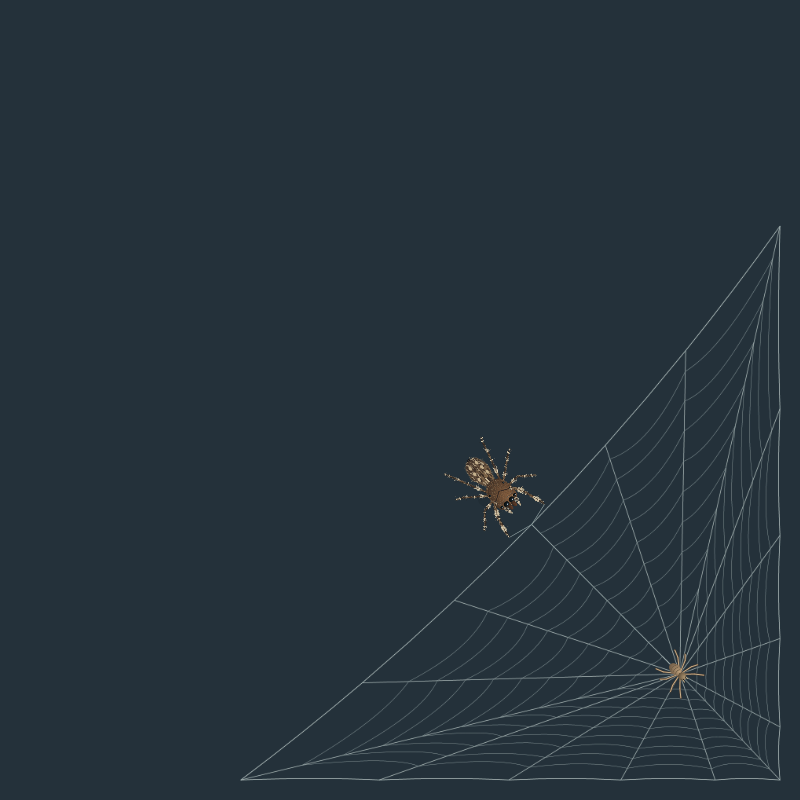
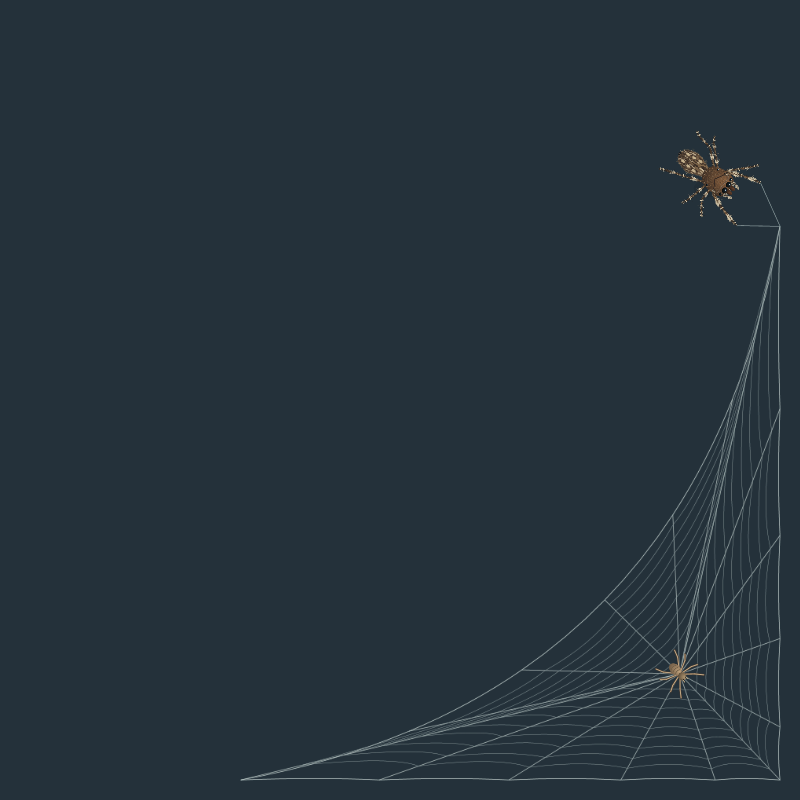
Deepen corner web curve and pluck at desktop attachments

diff --git a/WebEncounter.cs b/WebEncounter.cs
@@ -12,7 +12,8 @@ namespace CornerSpider {
         public double GuestWebFactor { get; private set; }
         public double GuestWebScale { get { return GuestScale*GuestWebFactor; } }
         public double GuestWebExtent { get { return 188*GuestWebScale; } }
-        public V GuestPluckPoint { get { return GuestPatternPoint(GuestWebPattern.Rim(0)); } }
+        public int GuestPluckSpoke { get; private set; }
+        public V GuestPluckPoint { get { return GuestPatternPoint(GuestWebPattern.Rim(GuestPluckSpoke)); } }
         public V GuestPluckPosition { get { return guestStop; } }
         public bool GuestFadeStarted { get; private set; }
         public double NextWebVisit=100;
@@ -105,6 +106,15 @@ namespace CornerSpider {
                 best=distance;found=true;GuestArea=area;GuestCornerIndex=corner;GuestCorner=edge;GuestCenter=center;GuestInward=inward*(1/Math.Sqrt(2));GuestScale=s;GuestWebFactor=factor;
             }
             if(!found) { NextWebVisit=Clock+120;return false; }
+            // Pluck at the nearer outer desktop attachment, never on the
+            // unsupported middle of the open rim. Both choices join a spoke.
+            V topStop,topGoal,sideStop,sideGoal;
+            bool top=PlanPlucking(GuestWebPattern.TopBridgeAnchor,out topStop,out topGoal);
+            bool side=PlanPlucking(GuestWebPattern.SideBridgeAnchor,out sideStop,out sideGoal);
+            if(!top && !side) { NextWebVisit=Clock+120;return false; }
+            bool useTop=top && (!side || (topStop-Spider).Length<=(sideStop-Spider).Length);
+            GuestPluckSpoke=useTop?GuestWebPattern.TopBridgeAnchor:GuestWebPattern.SideBridgeAnchor;
+            guestStop=useTop?topStop:sideStop;guestResidentGoal=useTop?topGoal:sideGoal;
             GuestAge=GuestStageAge=GuestProgress=GuestLure=guestResponse=previousPulse=0;GuestTaps=0;
             GuestBuildTime=Between(180,240);GuestWaitTime=Between(60,120);GuestOpacity=1;
             GuestFadeStarted=false;guestFadeAge=0;
@@ -166,13 +176,29 @@ namespace CornerSpider {
                 MoveGuest(GuestCenter+(guestResidentGoal-GuestCenter)*GuestLure,dt);
             }
         }
+        V PluckingPerch(V contact) {
+            double s=Scale*Areas[GuestArea].Dpi;V outward=contact-GuestCenter;outward=outward*(1/outward.Length);
+            // Keep the entire hunter inside the desktop beside the attachment.
+            return Areas[GuestArea].Clamp(contact+outward*(52*s),SpiderPose.Radius*s);
+        }
+        bool PlanPlucking(int spoke,out V stop,out V goal) {
+            V contact=GuestPatternPoint(GuestWebPattern.Rim(spoke));stop=PluckingPerch(contact);goal=GuestCenter;
+            double s=Scale*Areas[GuestArea].Dpi;
+            // A fitted web's anchor is too close to the edge for the hunter's
+            // whole-body landing. Keep the resident on its connected spoke,
+            // but shorten the lure until the normal mouth-offset jump fits.
+            for(int step=0;step<18;step++) {
+                V candidate=GuestCenter+(contact-GuestCenter)*(.45-step*.025);
+                V direction=candidate-stop;
+                V landing=Areas[GuestArea].Clamp(candidate-direction*(25*s/direction.Length),SpiderPose.Radius*s);
+                if((landing-candidate).Length<32*s) { goal=candidate;return true; }
+            }
+            return false;
+        }
         void BeginWebApproach() {
             ClearPlay();WebStage=WebVisit.Approach;GuestStageAge=0;guestReachedDetour=false;
             double s=Scale*Areas[GuestArea].Dpi;
-            V outward=GuestPluckPoint-GuestCenter;outward=outward*(1/outward.Length);
-            guestStop=GuestPluckPoint+outward*(52*s);
             guestDetour=GuestLocal(GuestWebExtent+110*s,GuestWebExtent+40*s);
-            guestResidentGoal=GuestCenter+(GuestPluckPoint-GuestCenter)*.45;
             Enter(Mood.WebApproach);
         }
         void SneakToWeb(double dt) {
@@ -181,12 +207,12 @@ namespace CornerSpider {
             double distance=(target-Spider).Length/BodyScale;
             if(BurstMove(target,distance>400?135:distance>140?85:44,dt,true)) {
                 if(!guestReachedDetour) guestReachedDetour=true;
-                else { WebStage=WebVisit.Plucking;GuestStageAge=0;Face(GuestCenter);Enter(Mood.WebPluck); }
+                else { WebStage=WebVisit.Plucking;GuestStageAge=0;Face(GuestPluckPoint);Enter(Mood.WebPluck); }
             }
         }
         void PluckWeb() {
             if(!GuestPrey) { Wake();return; }
-            Face(Fly);
+            Face(GuestPluckPoint);
             if(GuestLure>=1 && GuestTaps>=8) { WebStage=WebVisit.Attack;GuestStageAge=0;PrepareJump(Fly,"fly"); }
         }
     }

diff --git a/EncounterTests.cs b/EncounterTests.cs
@@ -12,8 +12,10 @@ static class EncounterTests {
         w.Corner=Settings.Corners[seed%4];w.UpdateHome();w.Spider=w.Home;w.SetSpecies("PortiaLabiata");w.AutoFeed=w.CursorPlay=false;return w;
     }
     public static void Run() {
+        var attachmentChoices=new HashSet<int>();
         foreach(double size in new[]{.2,1,1.8}) foreach(double dt in new[]{.033,.1}) for(int seed=0;seed<8;seed++) {
             var w=New(seed,size,new[]{1,1.5,2}[seed%3]);Check(w.StartWebVisit(),"Portia can invite a web builder");
+            attachmentChoices.Add(w.GuestPluckSpoke);
             Check(w.GuestBuildTime>=180 && w.GuestBuildTime<=240 && w.GuestWaitTime>=60 && w.GuestWaitTime<=120,"real build and post-build wait durations");
             Check((w.GuestCenter-w.Home).Length>320*w.HomeScale,"guest web is separate from the hammock");
             Check(Math.Abs(w.GuestWebFactor-3)<.001 && Math.Abs((w.GuestNode(2)-w.GuestNode(0)).Length/w.GuestScale-549)<.001,"roomy displays use three times the original web span");
@@ -36,6 +38,8 @@ static class EncounterTests {
                     if(w.GuestLure==0) Check((w.Spider-w.Fly).Length>250*w.GuestScale,"central resident and edge-plucking Portia are visibly separated");
                     if(w.GuestTaps>0 && w.GuestTaps<4) { Check(w.GuestLure==0,"initial probes do not immediately summon resident");ignoredProbe=true; }
                     if(w.GuestLure>0) Check(w.GuestTaps>=4,"resident responds only after exploratory signals");
+                    V spoke=w.GuestPluckPoint-w.GuestCenter,along=w.Fly-w.GuestCenter;
+                    Check(Math.Abs(spoke.X*along.Y-spoke.Y*along.X)<.00001*w.GuestScale*w.GuestScale,"lured resident stays on the spoke connected to the chosen desktop anchor");
                 }
             }
             Check(w.Meals==1 && w.Meal==PreyKind.SmallSpider && !w.HasFly,"complete web encounter captures exactly one resident, seed "+seed+" size "+size+" state "+w.State+" visit "+w.WebStage);
@@ -89,6 +93,26 @@ static class EncounterTests {
             Check(fitted.GuestWebFactor<=3 && fitted.GuestWebFactor>=1 && fitted.GuestWebExtent+200*fitted.GuestScale<=1000,"fitted web leaves an approach lane");
             for(int j=0;j<15;j++) Check(fitted.Areas[fitted.GuestArea].Contains(fitted.GuestNode(j)),"every enlarged thread junction stays on its selected display");
         }
+        for(int orientation=0;orientation<2;orientation++) for(int corner=0;corner<4;corner++) {
+            var fitted=New(corner,1.8,1);fitted.ConfigureDisplays(new[]{new Area(0,0,orientation==0?1920:1000,orientation==0?1000:1920,1)},0);fitted.Spider=fitted.Home;
+            Check(fitted.StartWebVisit() && fitted.GuestWebFactor<3,"deep-curve fixture uses a fitted web");
+            attachmentChoices.Add(fitted.GuestPluckSpoke);
+            bool plucked=false;
+            for(int i=0;i<8500 && fitted.Meals==0;i++) {
+                fitted.Tick(.1,away);
+                if(fitted.WebStage==WebVisit.Plucking) {
+                    plucked=true;var area=fitted.Areas[fitted.GuestArea];
+                    Check((area.Clamp(fitted.GuestPluckPosition,SpiderPose.Radius*fitted.GuestScale)-fitted.GuestPluckPosition).Length<.000001,
+                        "fitted web's plucking perch leaves full body clearance at the display edge");
+                }
+            }
+            Check(plucked && fitted.Meals==1,"deep curved web remains reachable through a complete fitted encounter in corner "+corner+
+                "; mood="+fitted.State+", visit="+fitted.WebStage+", plucked="+plucked+", meals="+fitted.Meals+
+                ", contact="+fitted.GuestPluckSpoke+", prey gap="+(fitted.Fly-fitted.Spider).Length/fitted.GuestScale);
+            complete++;
+        }
+        Check(attachmentChoices.Contains(GuestWebPattern.TopBridgeAnchor) && attachmentChoices.Contains(GuestWebPattern.SideBridgeAnchor),
+            "complete hunts exercise both outer desktop attachments on landscape and portrait displays");
         // A route that cuts across the reserved corner must take the outside lane,
         // even though neither its start nor its goal is in the web.
         var route=New(3,1,1);route.StartWebVisit();V signs=route.GuestInward*Math.Sqrt(2);double edge=route.GuestWebExtent;

diff --git a/GuestWebTests.cs b/GuestWebTests.cs
@@ -32,7 +32,19 @@ static class GuestWebTests {
         }
         V openMiddle=GuestWebPattern.Rim(0),chord=new V(-183,188);
         double inset=Math.Abs((openMiddle.X-183)*chord.Y-openMiddle.Y*chord.X)/chord.Length;
-        Check(inset>8 && inset<15,"outer edge has a visible but gentle inward bow between fixed anchors");
+        V chordMiddle=new V(91.5,94);
+        double chordDepth=183*188/chord.Length;
+        Check(inset/chordDepth>.34 && inset/chordDepth<.36,"outer edge bows inward by 35 percent of the full corner-to-chord depth");
+        V priorMiddle=chordMiddle+(GuestWebPattern.Hub-chordMiddle)*.125;
+        Check(openMiddle.Length/priorMiddle.Length>.69 && openMiddle.Length/priorMiddle.Length<.72,
+            "middle edge is about 30 percent shallower than RC8 while its anchors stay fixed");
+        Check((openMiddle-GuestWebPattern.Hub).Length>35,"deep curve leaves room around the resident hub");
+        foreach(int spoke in new[]{GuestWebPattern.TopBridgeAnchor,GuestWebPattern.SideBridgeAnchor}) {
+            V contact=GuestWebPattern.Rim(spoke);
+            Check(contact.X==0 || contact.Y==0,"each plucking choice is a real desktop attachment");
+            Check((contact-GuestWebPattern.Hub).Length*3+52>250,
+                "anchor plucking preserves separation between Portia and the waiting resident on a full-size web");
+        }
         int anchors=0,curved=0,spiral=0;V previous=new V();bool first=true;
         for(int i=0;i<GuestWebPattern.Count;i++) {
             var strand=GuestWebPattern.Strand(i);
@@ -74,7 +86,11 @@ static class GuestWebTests {
                 if(rim.X==0) Check(Math.Min(Math.Abs(at.X-area.X),Math.Abs(at.X-area.X-area.W))<.000001,"side anchor touches the actual work-area boundary");
                 if(rim.Y==0) Check(Math.Min(Math.Abs(at.Y-area.Y),Math.Abs(at.Y-area.Y-area.H))<.000001,"top/bottom anchor touches the actual work-area boundary");
             }
-            Check((w.GuestPatternPoint(GuestWebPattern.Rim(0))-w.GuestPluckPoint).Length<.000001,"Portia plucks the endpoint of a real hub-connected spoke");
+            Check(w.GuestPluckSpoke==GuestWebPattern.TopBridgeAnchor || w.GuestPluckSpoke==GuestWebPattern.SideBridgeAnchor,"Portia chooses an outer desktop anchor, never the floating bridge middle");
+            Check((w.GuestPatternPoint(GuestWebPattern.Rim(w.GuestPluckSpoke))-w.GuestPluckPoint).Length<.000001,"Portia plucks the endpoint of a real hub-connected spoke");
+            V contact=w.GuestPluckPoint;
+            Check(Math.Min(Math.Min(Math.Abs(contact.X-area.X),Math.Abs(contact.X-area.X-area.W)),Math.Min(Math.Abs(contact.Y-area.Y),Math.Abs(contact.Y-area.Y-area.H)))<.000001,
+                "chosen plucking contact stays on a physical display edge after mirroring and scaling");
             V last=w.Fly;
             while(w.WebStage==WebVisit.Building) {
                 w.Tick(.1,new V(-10000,-10000));

diff --git a/PetSettingsWindow.cs b/PetSettingsWindow.cs
@@ -140,7 +140,7 @@ namespace CornerSpider {
             var help=NewPanel();help.Children.Add(Text("A quiet little desktop companion",21));
             Note(help,"Approach an awake spider and hold still for the configured invitation delay. The finger fades in; the spider can jump on, hang, climb and wander. Move gently to carry it. A click lets it plan an upward hop; a fast move startles it. The finger holds still until takeoff, and your pointer returns immediately. Your clicks still reach your apps.");
             Note(help,"It watches from corners, stalks occasional flies and returns to its silk retreat. Use the tray's quick actions to feed, call it home, wake or pause it. Double-click the tray icon to reopen these settings.");
-            Note(help,"Corner Spider 1.0 RC8\nFree software under the MIT License. The pet works offline with no accounts or telemetry. Optional Cash App support opens your browser only when clicked. Preferences are stored in LocalAppData\\CornerSpider. See README.txt for removal and manual checks.");
+            Note(help,"Corner Spider 1.0 RC9\nFree software under the MIT License. The pet works offline with no accounts or telemetry. Optional Cash App support opens your browser only when clicked. Preferences are stored in LocalAppData\\CornerSpider. See README.txt for removal and manual checks.");
             Note(help,"Future ideas: custom colors by body region; crickets, mealworms and other prey; additional spider species; an optional background with depth to explore.");AddTab("About & play",help);
             saveTimer.Tick+=delegate { saveTimer.Stop();host.Save();saveStatus.Text=host.Settings.LastError.Length==0?"Saved. Changes are live on your desktop.":"Could not save preferences. Check that your save folder is writable."; };
             Closed+=delegate { IsClosed=true;saveTimer.Stop();encounterTimer.Stop();Preview.Dispose();host.Save(); };

diff --git a/GuestWebPattern.cs b/GuestWebPattern.cs
@@ -16,6 +16,7 @@ namespace CornerSpider {
     }
     public static class GuestWebPattern {
         public const int Spokes=16,Turns=9;
+        public const int TopBridgeAnchor=13,SideBridgeAnchor=3;
         public static readonly V Hub=new V(34,36);
         static readonly double[] bridgeTimes={0,.2,.36,.5,.64,.8,1};
         static readonly V[] rim=MakeRim();
@@ -49,11 +50,12 @@ namespace CornerSpider {
             for(int i=0;i<bridgeTimes.Length;i++) points[(13+i)%Spokes]=BridgePoint(bridgeTimes[i]);
             return points;
         }
-        // Pull the bridge control point one quarter of the way toward the hub.
-        // A single quadratic arc keeps the open edge gently concave throughout,
-        // with both desktop attachment points fixed. Split it exactly at spoke
-        // joins so construction, artwork and plucking use the same curve.
-        static V BridgeControl { get { V middle=new V(91.5,94);return middle+(Hub-middle)*.25; } }
+        // A quadratic's midpoint lies halfway between its chord midpoint and
+        // control point. Place the control at 30% of the corner-to-chord depth:
+        // the visible middle is at 65%, about 30% shallower than RC8's 92%.
+        // Keep both edge anchors fixed and split the arc exactly at spoke joins
+        // so construction, artwork and plucking use the same smooth curve.
+        static V BridgeControl { get { return new V(91.5,94)*.30; } }
         static V BridgePoint(double t) { double u=1-t;return new V(183,0)*(u*u)+BridgeControl*(2*u*t)+new V(0,188)*(t*t); }
         static V BridgeTangent(double t) { return (BridgeControl-new V(183,0))*(2*(1-t))+(new V(0,188)-BridgeControl)*(2*t); }
         static GuestStrand Bridge(double start,double end) {

diff --git a/JumpingSpider.cs b/JumpingSpider.cs
@@ -13,7 +13,7 @@ using Forms=System.Windows.Forms;
 [assembly:System.Runtime.Versioning.TargetFramework(".NETFramework,Version=v4.8")]
 [assembly:System.Reflection.AssemblyVersion("1.0.0.0")]
 [assembly:System.Reflection.AssemblyFileVersion("1.0.0.0")]
-[assembly:System.Reflection.AssemblyInformationalVersion("1.0.0-rc.8")]
+[assembly:System.Reflection.AssemblyInformationalVersion("1.0.0-rc.9")]
 [assembly:System.Reflection.AssemblyTitle("Corner Spider")]
 [assembly:System.Reflection.AssemblyProduct("Corner Spider")]
 [assembly:System.Reflection.AssemblyDescription("A local jumping-spider companion for the Windows desktop.")]
@@ -262,7 +262,7 @@ namespace CornerSpider {
             }
         }
         void BuildTray() {
-            Menu=new Forms.ContextMenuStrip();Menu.Opening+=delegate { CursorVisibility.Release(); };Menu.Items.Add(new Forms.ToolStripMenuItem("CORNER SPIDER  1.0 RC8") { Enabled=false });
+            Menu=new Forms.ContextMenuStrip();Menu.Opening+=delegate { CursorVisibility.Release(); };Menu.Items.Add(new Forms.ToolStripMenuItem("CORNER SPIDER  1.0 RC9") { Enabled=false });
             var status=new Forms.ToolStripMenuItem { Enabled=false };Menu.Items.Add(status);
             Menu.Opening+=delegate { status.Text=(World.GuestStatus.Length>0?World.GuestStatus:World.State.ToString())+"  |  "+World.Meals+" prey caught"+(Settings.LastError.Length>0?"  |  Save failed":""); };
             Menu.Items.Add(new Forms.ToolStripSeparator());

diff --git a/RuntimeTests.cs b/RuntimeTests.cs
@@ -32,7 +32,7 @@ namespace CornerSpider {
                 using(var icon=PetHost.MakeIcon("Bold")) using(var file=File.Create(Path.Combine(folder,"CornerSpider.ico"))) icon.Save(file);
                 return 0;
             }
-            log=new StringBuilder();log.AppendLine("Corner Spider 1.0 RC8 Windows runtime checks "+DateTime.Now.ToString("s"));
+            log=new StringBuilder();log.AppendLine("Corner Spider 1.0 RC9 Windows runtime checks "+DateTime.Now.ToString("s"));
             string testSettings=Path.Combine(folder,"settings");Check(new Settings { FingerTone=.37,Species="PortiaLabiata" }.Save(testSettings),"seed isolated finger-tone and Portia preferences");
             IntPtr foreground=Native.GetForegroundWindow();var host=new PetHost(testSettings,true);
             IntPtr afterCreation=Native.GetForegroundWindow();uint foregroundPid,afterCreationPid;

diff --git a/docs/VERIFICATION.md b/docs/VERIFICATION.md
@@ -1,44 +1,48 @@
-# Verification for 1.0.0-rc.8
+# Verification for 1.0.0-rc.9
 
-Local Windows verification, October 23, 2026. RC7 source, executable and release
-packages were preserved before changing the resident web's outer curve.
+Local Windows verification, October 23, 2026. RC8 source, executable and release
+packages were preserved before deepening the resident web's outer curve.
 
-## Checked for RC8
+## Checked for RC9
 
-The deterministic suites pass, including 183,049 corner-web checks and 48 full
-Portia encounters. See [behavior output](behavior-checks.txt). The open edge is
-one smooth quadratic arc split at the radial spokes; checks verify matching
-tangents at joins, a visible inward bow, fixed edge attachments, supported bounds,
-construction following the visible silk, plucking, capture and departure fading.
-Sizes of 20-180% and simulated DPI of 100-200% remain covered.
+The deterministic suites pass, including 183,160 corner-web checks and 56 full
+Portia encounters: 48 across sizes/frame steps/DPI plus eight fitted-web hunts
+across all four corners on landscape and portrait displays. Both outer attachment
+choices complete hunts. See [behavior output](behavior-checks.txt).
 
-The targeted WPF checks verify visible silk, transparent bounds, contact with
-both desktop edges in all four corners, retained rendering and bounded image
-updates during construction. See [web rendering checks](web-render-checks.txt).
-These are the same web checks called by the full --self-test diagnostic.
+The open edge remains one smooth quadratic arc split at radial spokes. Its middle
+is about 30% closer to the corner than in RC8; fixed end anchors, tangent continuity,
+bounds and construction paths are checked. Portia chooses an outer attachment on
+an actual display edge, faces it to pluck, and keeps its body inside the desktop.
+The resident follows the connected spoke. On fitted webs it stops earlier when
+needed for the normal mouth-offset capture to remain reachable. Tests retain
+resident/hunter separation, capture, patrol avoidance and departure-triggered fading.
 
-Inspected the [four-corner preview](prey-web-corners.png),
-[light/dark preview](prey-web-light-dark.png), [plucking detail](portia-web-edge.png)
-and [full encounter gallery](portia-web-encounter.png). The shared curve moves
-the spoke endpoints, building path and Portia's contact together. Both desktop
-anchors remain fixed. The web is an illustration for generic prey, not an exact
-species web or natural construction sequence.
+Ten targeted WPF checks pass: visible silk, transparent bounds, both-edge contact
+in all four corners, retained artwork and bounded image updates during building.
+See [web rendering checks](web-render-checks.txt). These are the same web checks
+called by the full --self-test diagnostic.
 
-The packages are checked entry by entry, the extracted source rebuilds, and the
-portable executable reproduces the documented preview images. The desktop
-shortcut targets the current runnable build. The local Git tag is v1.0.0-rc.8;
-no public GitHub release was published.
+Inspected the [four-corner preview](prey-web-corners.png) and
+[anchor-plucking detail](portia-web-edge.png). Also generated updated
+[light/dark artwork](prey-web-light-dark.png) and the
+[encounter gallery](portia-web-encounter.png). The web illustrates generic prey;
+it is not an exact species web or natural construction sequence.
+
+The Windows/source packages are checked entry by entry. Extracted source rebuilds;
+the portable executable reproduces the updated web previews. The desktop shortcut
+targets RC9. A normal launch/resource sample is recorded separately from the
+broader earlier diagnostics. No public GitHub release was published.
 
 ## Previous checks and manual follow-up
 
 The broader [Windows diagnostics](windows-checks.txt) and
-[resource samples](web-load-checks.txt) are retained RC7 results, not new RC8 runs.
-Those checks covered transparency, click-through behavior, focus, settings,
-cursor restoration, shutdown and stable resource handles. They used one active
-192-DPI display. This small geometry change does not alter that platform code.
+[web resource samples](web-load-checks.txt) are retained RC7 results, not RC9 runs.
+Those covered transparency, click-through behavior, focus, settings, cursor
+restoration, shutdown and stable resource handles on one active 192-DPI display.
 
-For a manual look, select Portia, invite a web-building spider in Settings >
-Behavior, and check the open edge as the silk grows. It should curve gently toward
-the corner, stay attached to both edges, and keep its shape while Portia plucks.
-Automated complete hunts use simulated time. A full real-time encounter,
-physical mixed-DPI changes, sleep/unplug and a long resource soak remain manual.
+For a manual look, select Portia and invite a web-building spider in Settings >
+Behavior. Check the deeper curve, direct edge attachments and Portia approaching
+one anchored end. Automated complete hunts use simulated time. A full real-time
+encounter, physical mixed-DPI changes, sleep/unplug and a long resource soak remain
+manual checks for this release.

diff --git a/README.md b/README.md
@@ -1,4 +1,4 @@
-# Corner Spider 1.0 RC8
+# Corner Spider 1.0 RC9
 
 A small jumping spider for your actual Windows desktop. It watches from corners,
 stalks occasional prey, builds a silk retreat and sometimes accepts a finger ride.
@@ -7,18 +7,20 @@ See the [changelog](CHANGELOG.md) for changes and fixes by version.
 
 ![Twenty procedural spider skins](docs/skins-light.png)
 Portia's resident prey builds a larger corner web and waits at its center. Portia
-reserves that corner, then approaches its edge to pluck and lure the resident.
+reserves that corner, then approaches an outer desktop attachment to pluck and
+lure the resident along its connected spoke.
 The web stays visible after the meal until Portia moves clear. The resident weaves
 a corner-shaped web attached at eleven points along both desktop edges, with
-a smooth, gently concave outer bridge, radial spokes and curved spiral silk. The resident
-waits at its hub; Portia plucks a connected spoke at the outer edge.
+a smooth, deeply concave outer bridge, radial spokes and curved spiral silk. The
+middle sits about 30% closer to the corner than in RC8; both end anchors stay fixed.
+The resident waits at its hub; Portia plucks beside one of those anchored ends.
 
 The Appearance preview includes each species' silk retreat in its upper-right
 corner, with live skin, size and background changes.
 
 ![Settings with species silk preview and the original optional Cash App QR](docs/settings-banner.png)
 
-This is the **1.0.0-rc.8 release candidate**. Windows build and automated checks
+This is the **1.0.0-rc.9 release candidate**. Windows build and automated checks
 pass; the remaining hands-on release checklist is in [verification notes](docs/VERIFICATION.md).
 
 ## Download and start

diff --git a/RELEASING.md b/RELEASING.md
@@ -5,8 +5,8 @@ by the local packaging script or build workflow.
 
 Changes after a preserved tag belong to the next release. Choose its version,
 update the version sources below and tag the reviewed commit containing the new
-documentation. Replace `vNEXT_VERSION` below with that tag. Keep the existing RC8
-tag and ZIPs unchanged; documentation previews built from RC8 are drafts.
+documentation. Replace `vNEXT_VERSION` below with that tag. Keep the existing release
+tags and ZIPs unchanged.
 
 1. Create an empty public repository named corner-spider under your chosen
    GitHub account. Review LICENSE and the public README before uploading.
@@ -42,7 +42,7 @@ The portable executable is unsigned. Do not claim it is signed, security-certifi
 or tested on systems that were not exercised. Code signing is a future improvement.
 
 Before final 1.0, complete the manual checklist and update the informational
-version from 1.0.0-rc.8 to 1.0.0. Retest the exact release contents. The optional
+version from 1.0.0-rc.9 to 1.0.0. Retest the exact release contents. The optional
 support QR intentionally identifies the creator; review docs/SUPPORT.md before
 redistributing a fork. Keep this recipient or replace both QR and link deliberately.
 

diff --git a/CHANGELOG.md b/CHANGELOG.md
@@ -2,6 +2,15 @@
 
 ## Unreleased
 
+## 1.0.0-rc.9
+
+- Deepen the resident web's open-edge curve: the middle sits about 30% closer to
+  the corner than in RC8, with both end anchors fixed and smooth spoke joins.
+- Portia chooses the nearer outer attachment on a desktop edge, approaches beside
+  it and faces the anchor to pluck. Keep full body clearance, the resident's hub,
+  web footprint and separation between the hunter and resident.
+- Shorten the resident's lure path on fitted webs when needed for a safe capture;
+  retain contact with its spoke. Add complete fitted-web hunts in all four corners.
 - Include the complete version-by-version changelog in release notes and both
   Windows/source packages, with a standalone CHANGELOG.md release attachment.
 - Add the initial prototype and early build changes to the changelog.
